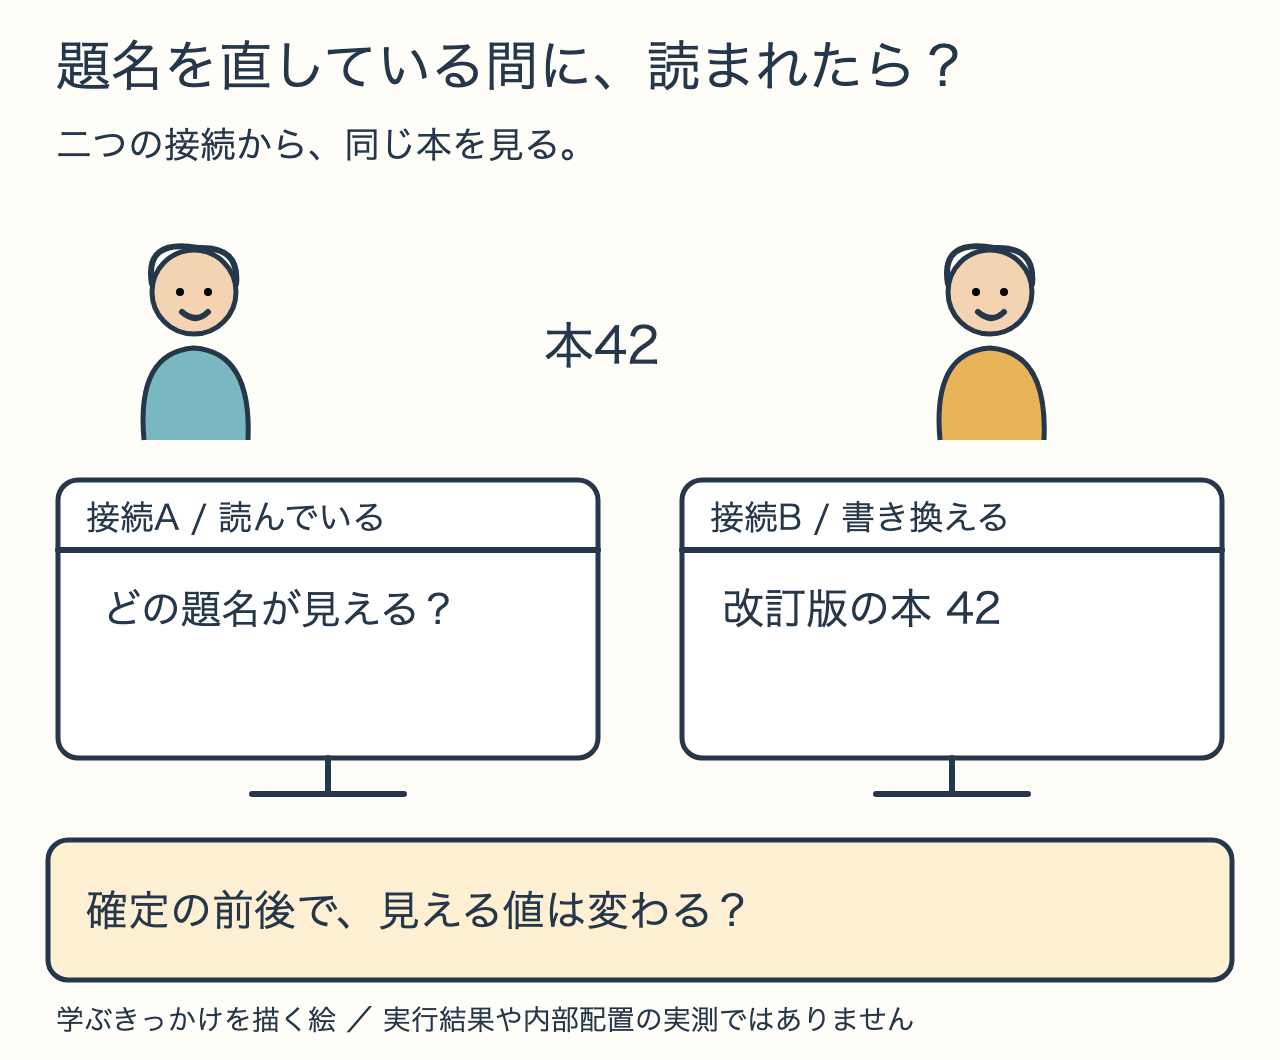
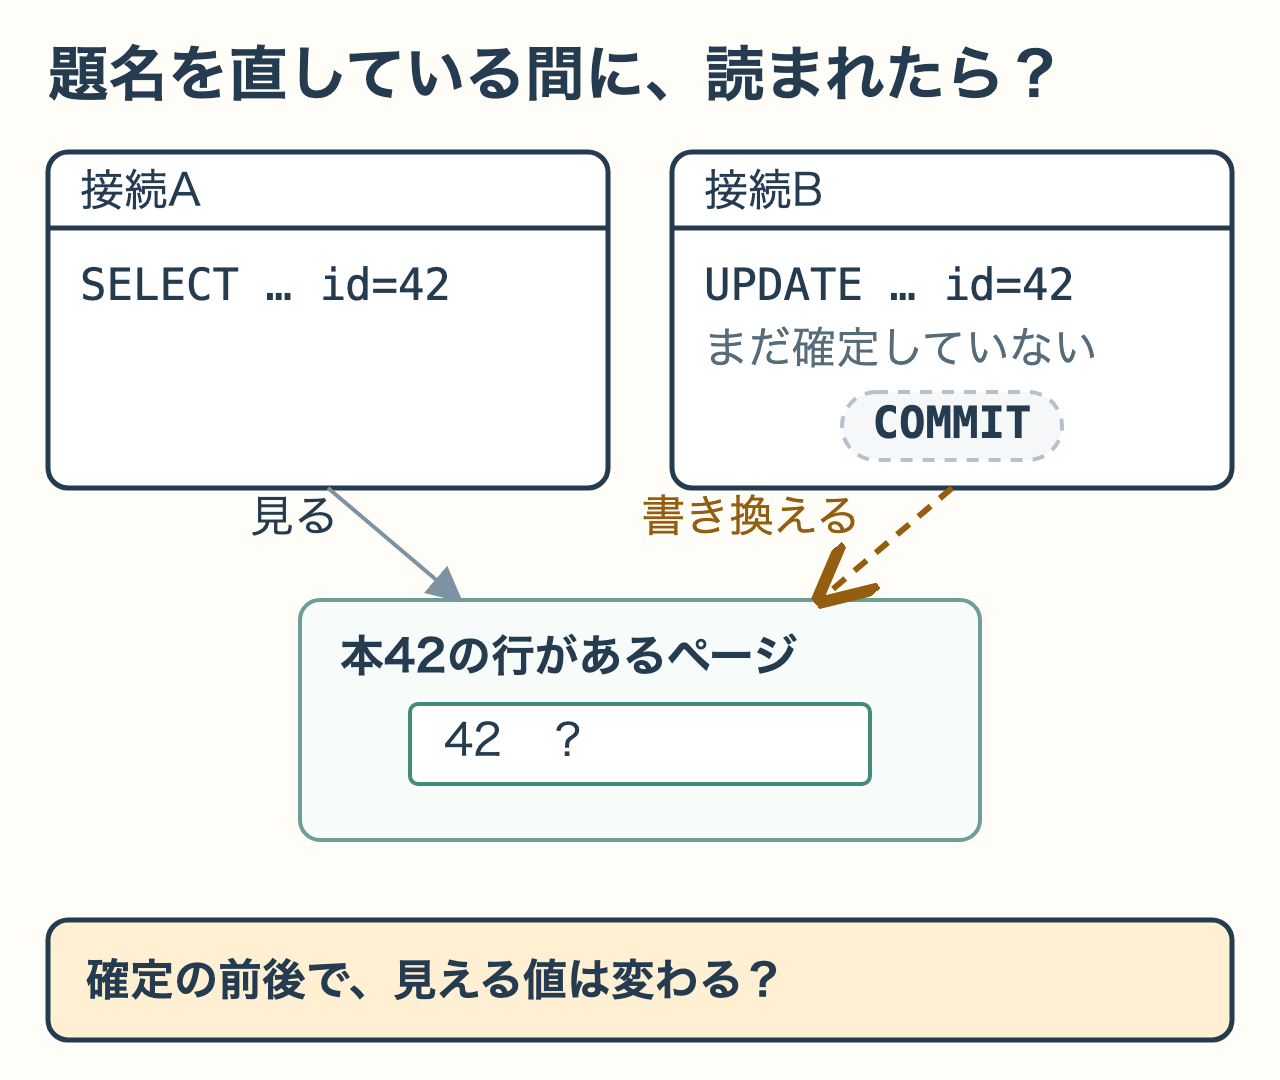
docs(query-journey): 第11章の問いの図を部品見本の書き方に描き直す
11-editing-scene を新しい部品（画面の枠・行カード・問いの箱）で描き直した。
左右の画面（接続A・接続B）から同じ行カード（id 42）を指す構成にし、
Bには「まだ確定していない」の一言とCOMMITボタン（未押下）を添えた。
答え（Aに実際に見える値）は描かず、行カードは「？」のままにして問いを保つ。
本文は代替テキストとキャプションのみ直し、catalog.json の description を
他の問いの型の図に合わせて更新した。

Changed region(s): [[0.0312, 0.1245, 0.9688, 0.9962], [0.0312, 0.0311, 0.8438, 0.0934], [0.25, 0.2491, 0.375, 0.2802]]

diff --git a/books/postgresql-query-journey/11-mvcc-and-maintenance.md b/books/postgresql-query-journey/11-mvcc-and-maintenance.md
@@ -10,8 +10,8 @@ title: "第11章：更新された行と、読み手から見える行"
 
 第10章では、`UPDATE`で8,000行の値を変えました。そのとき、元の行はどうなったのでしょうか。一人が題名を直している間に、別の人が同じ本を読もうとしたら、何が見えるでしょうか。読み手から見える内容を、操作の順番に沿って追います。
 
-![題名を直している間に、読まれたら？](/images/postgresql-query-journey/11-editing-scene.png)
-*学ぶきっかけを描く、説明用の場面。*
+![接続Aと接続Bの画面が、本42の同じ行を指す。Bはまだ確定しておらず、COMMITのボタンが残っている](/images/postgresql-query-journey/11-editing-scene.png)
+*二つの接続は同じ行（id 42）を指していますが、Bのボタンはまだ押されていません。*
 
 第4章から使ってきたトランザクションは、複数の操作をひとまとまりとして扱う単位でした。`BEGIN`で始め、`COMMIT`で確定、`ROLLBACK`で取り消します。答えは、トランザクションの状態と、分離レベル（ほかのトランザクションの変更をどこまで見せるかの設定）にも関わります。この後は条件を指定して実験します。
 
